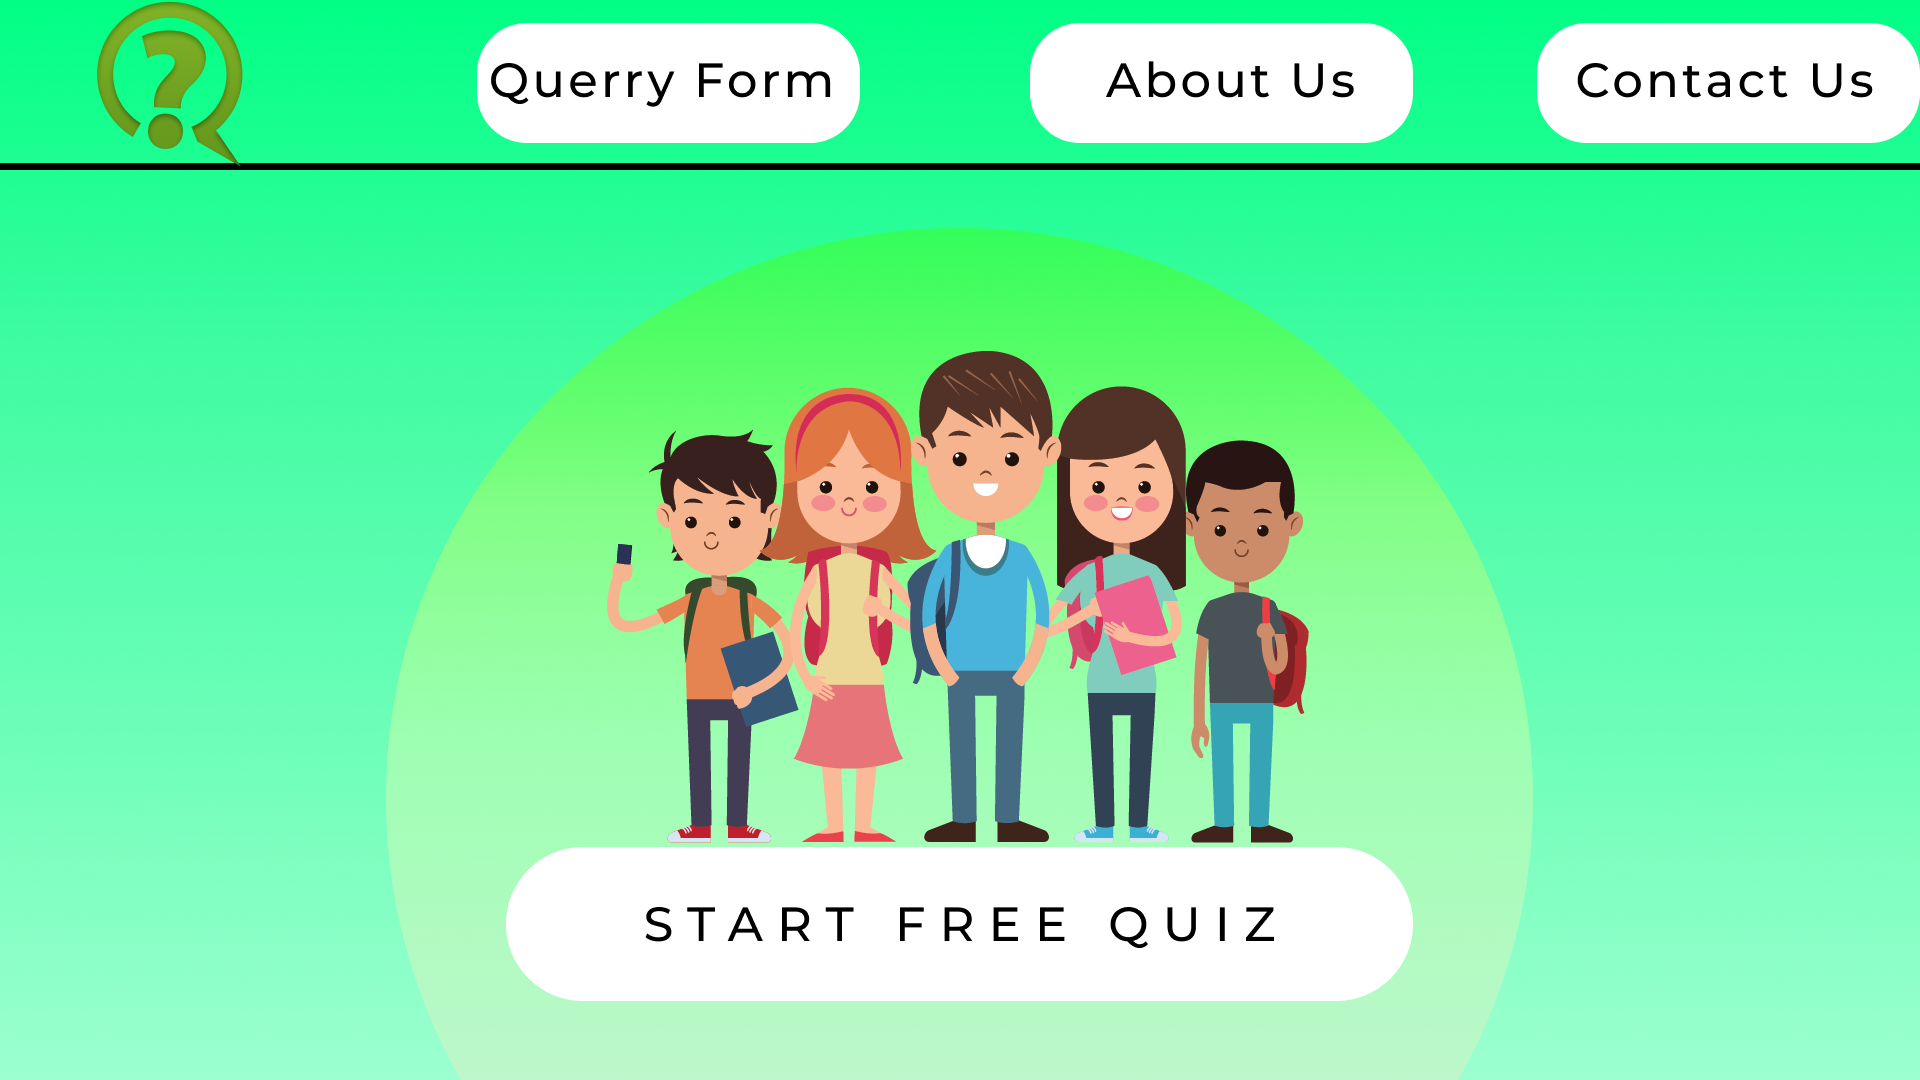
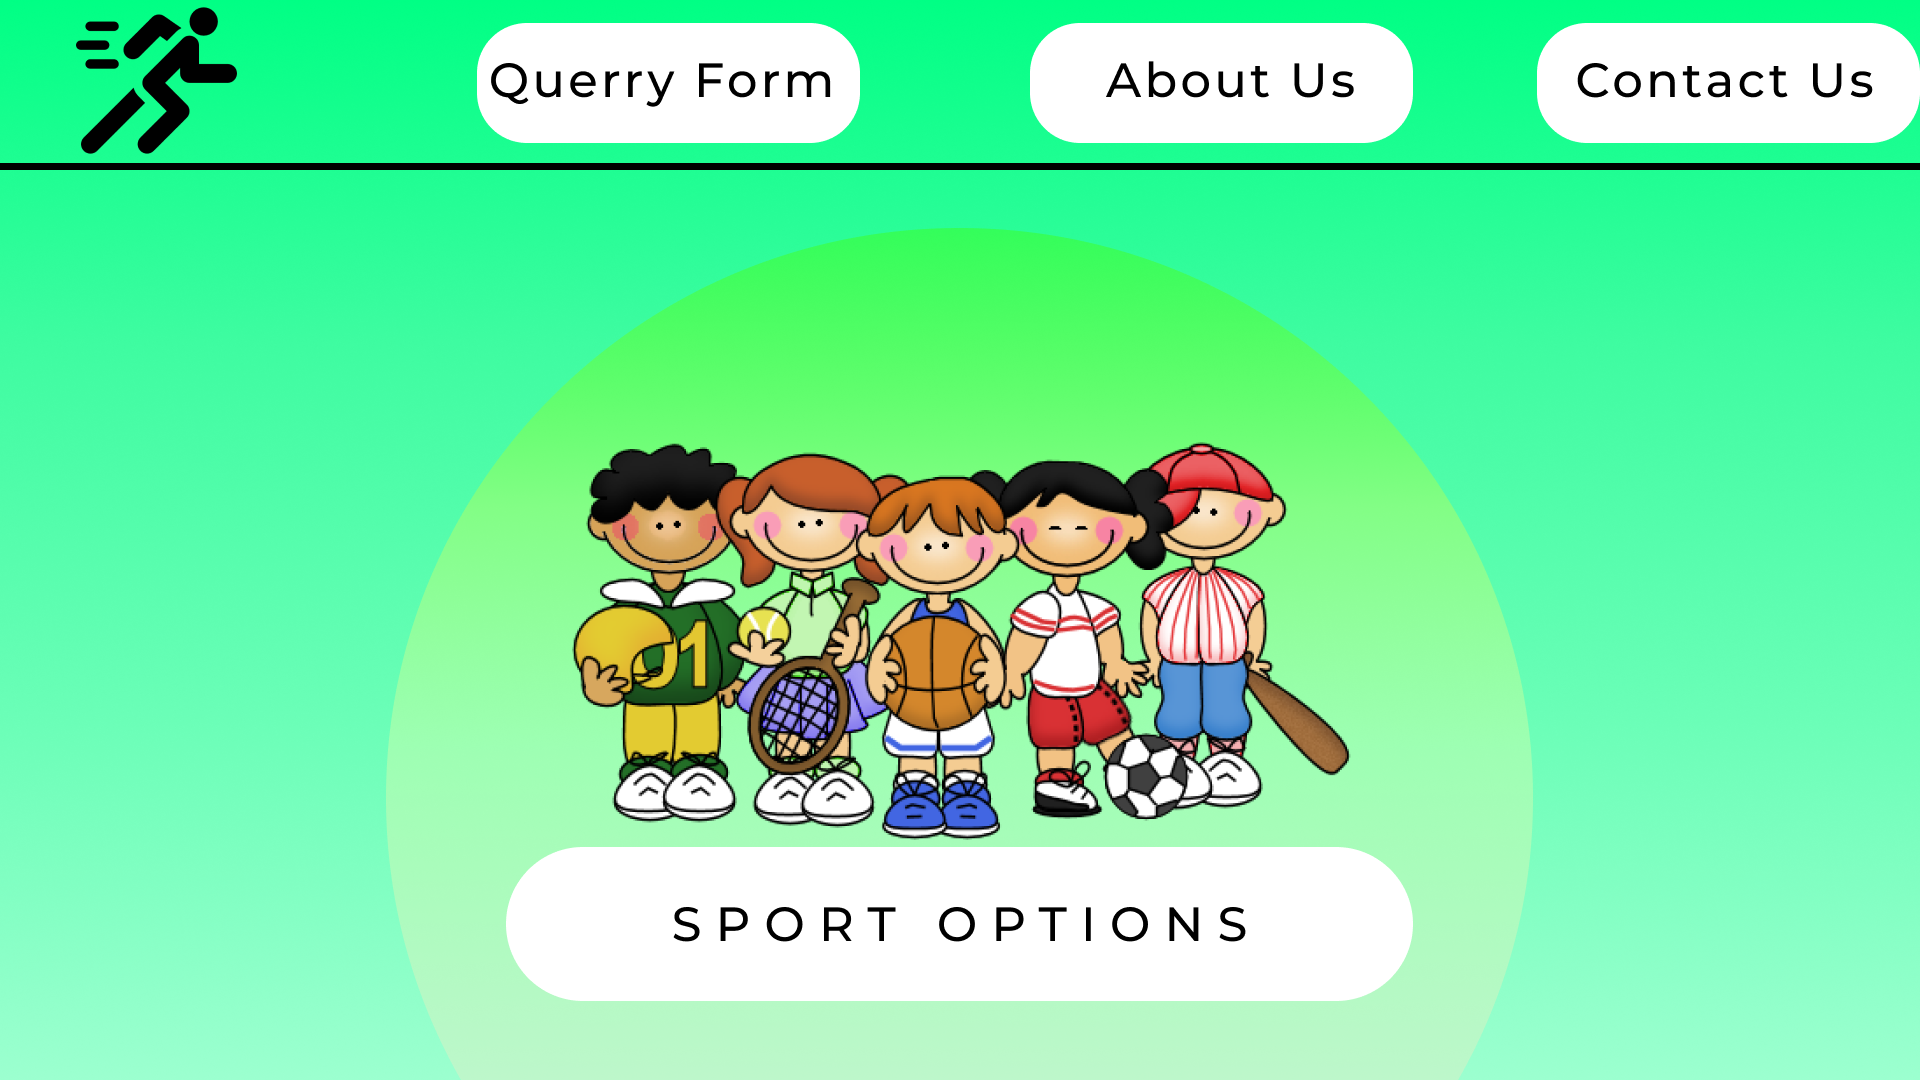
Start Screen 02

Changed region(s): [[0.2812, 0.3056, 0.7188, 0.7944], [0.3438, 0.825, 0.6562, 0.8861], [0.0312, 0.0, 0.125, 0.1528]]

diff --git a/Start Screen/StartScreen.css b/Start Screen/StartScreen.css
@@ -3,40 +3,45 @@
 }
 body {
   font-size: 14px;
+}
+.v1_3 {
   width: 100%;
-  height: 100%;
+  height: 1080px;
   background: linear-gradient(rgba(0,255,132,1), rgba(62,251,160,1));
   opacity: 1;
+  position: relative;
+  top: 0px;
+  left: 0px;
   overflow: hidden;
 }
-#v1_4 {
+.v1_4 {
   width: 100%;
   height: 100%;
-  background: linear-gradient(rgba(66,255,0), rgba(153,255,117));
+  background: linear-gradient(rgba(66,255,0,0.4000000059604645), rgba(153,255,117,0.6899999976158142));
   opacity: 1;
   position: absolute;
   top: 228px;
   left: 386px;
   border-radius: 50%;
 }
-#name {
+.name {
   color: #fff;
 }
-#SFQ {
-  width: 50%;
-  height: 10%;
+.v1_6 {
+  width: 907px;
+  height: 154px;
   background: rgba(255,255,255,1);
   opacity: 1;
   position: absolute;
-  top: 70%;
-  left: 30%;
+  top: 847px;
+  left: 506px;
   border-top-left-radius: 119px;
   border-top-right-radius: 119px;
   border-bottom-left-radius: 119px;
   border-bottom-right-radius: 119px;
   overflow: hidden;
 }
-#v1_7 {
+.v1_7 {
   width: 899px;
   color: rgba(0,0,0,1);
   position: absolute;
@@ -48,7 +53,7 @@ body {
   opacity: 1;
   text-align: center;
 }
-#v1_8 {
+.v1_8 {
   width: 383px;
   height: 120px;
   background: rgba(255,255,255,1);
@@ -62,7 +67,19 @@ body {
   border-bottom-right-radius: 50px;
   overflow: hidden;
 }
-#v1_9 {
+.v1_11 {
+  width: 383px;
+  color: rgba(0,0,0,1);
+  position: absolute;
+  top: 50px;
+  left: 387px;
+  font-family: Montserrat;
+  font-weight: Medium;
+  font-size: 48px;
+  opacity: 1;
+  text-align: center;
+}
+.v1_9 {
   width: 383px;
   height: 120px;
   background: rgba(255,255,255,1);
@@ -76,28 +93,7 @@ body {
   border-bottom-right-radius: 50px;
   overflow: hidden;
 }
-#v1_10 {
-  width: 383px;
-  height: 120px;
-  background: rgba(255,255,255,1);
-  opacity: 1;
-  position: absolute;
-  top: 23px;
-  left: 477px;
-}
-#v1_11 {
-  width: 383px;
-  color: rgba(0,0,0,1);
-  position: absolute;
-  top: 50px;
-  left: 387px;
-  font-family: Montserrat;
-  font-weight: Medium;
-  font-size: 48px;
-  opacity: 1;
-  text-align: center;
-}
-#v1_12 {
+.v1_12 {
   width: 383px;
   color: rgba(0,0,0,1);
   position: absolute;
@@ -109,7 +105,16 @@ body {
   opacity: 1;
   text-align: center;
 }
-#v1_13 {
+.v1_10 {
+  width: 383px;
+  height: 120px;
+  background: rgba(255,255,255,1);
+  opacity: 1;
+  position: absolute;
+  top: 23px;
+  left: 477px;
+}
+.v1_13 {
   width: 383px;
   color: rgba(0,0,0,1);
   position: absolute;
@@ -120,30 +125,4 @@ body {
   font-size: 48px;
   opacity: 1;
   text-align: center;
-}
-#v1_14 {
-  width: 158px;
-  height: 170px;
-  background: url("../images/v1_14.png");
-  background-repeat: no-repeat;
-  background-position: center center;
-  background-size: cover;
-  opacity: 1;
-  position: absolute;
-  top: 0px;
-  left: 93px;
-  overflow: hidden;
-}
-#v1_15 {
-  width: 791px;
-  height: 538px;
-  background: url("../images/v1_15.png");
-  background-repeat: no-repeat;
-  background-position: center center;
-  background-size: cover;
-  opacity: 1;
-  position: absolute;
-  top: 326px;
-  left: 564px;
-  overflow: hidden;
 }

diff --git a/Start Screen/StartScreen.html b/Start Screen/StartScreen.html
@@ -1,24 +1,1 @@
-<!DOCTYPE html>
-<html>
-    <head>
-        <link href="https://fonts.googleapis.com/css?family=Montserrat&display=swap" rel="stylesheet" />
-        <link href="StartScreen.css" rel="stylesheet" />
-        <title>Document</title>
-        <link href="./css/main.css" rel="stylesheet" />
-        <title>Document</title>
-    </head>
-    <body>
-            <div id="v1_4"></div>
-            <div id="name"></div>
-            <div id="SFQ"></div>
-            <span id="v1_7">START FREE QUIZ</span>
-            <div id="v1_8"></div>
-            <div id="v1_9"></div>
-            <div id="v1_10"></div>
-            <span id="v1_11">Contact Us</span>
-            <span id="v1_12">About Us</span>
-            <span id="v1_13">Querry Form</span>
-            <div id="v1_14"></div>
-            <div id="v1_15"></div>
-    </body>
-</html>
+<!DOCTYPE html><html><head><link href="https://fonts.googleapis.com/css?family=Montserrat&display=swap" rel="stylesheet" /><link href="./css/main.css" rel="stylesheet" /><title>Document</title></head><body><div class="v1_3"><div class="v1_4"></div><div class="name"></div><div class="v1_6"></div><span class="v1_7">SPORT OPTIONS</span><div class="v1_8"></div><span class="v1_11">Contact Us</span><div class="v1_9"></div><span class="v1_12">About Us</span><div class="v1_10"></div><span class="v1_13">Querry Form</span></div></body></html>
